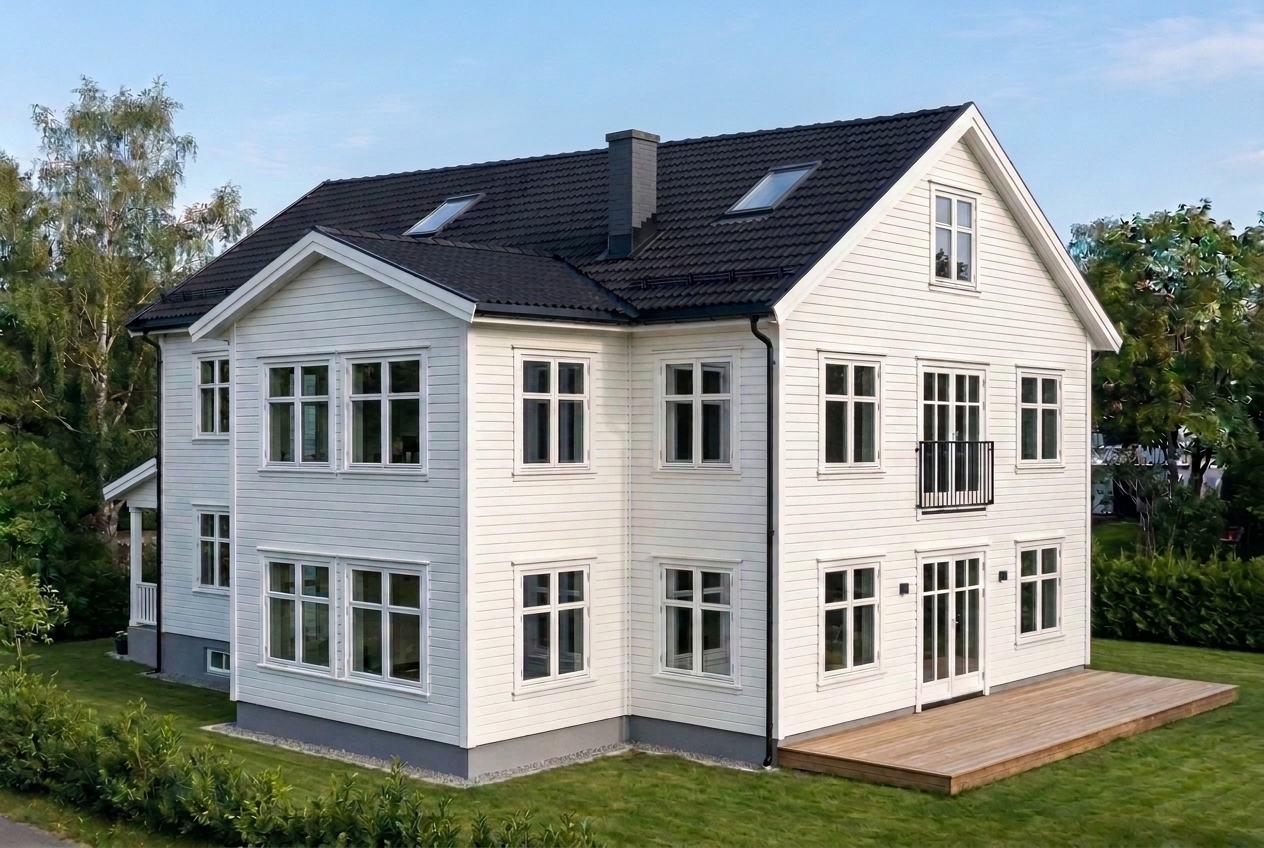
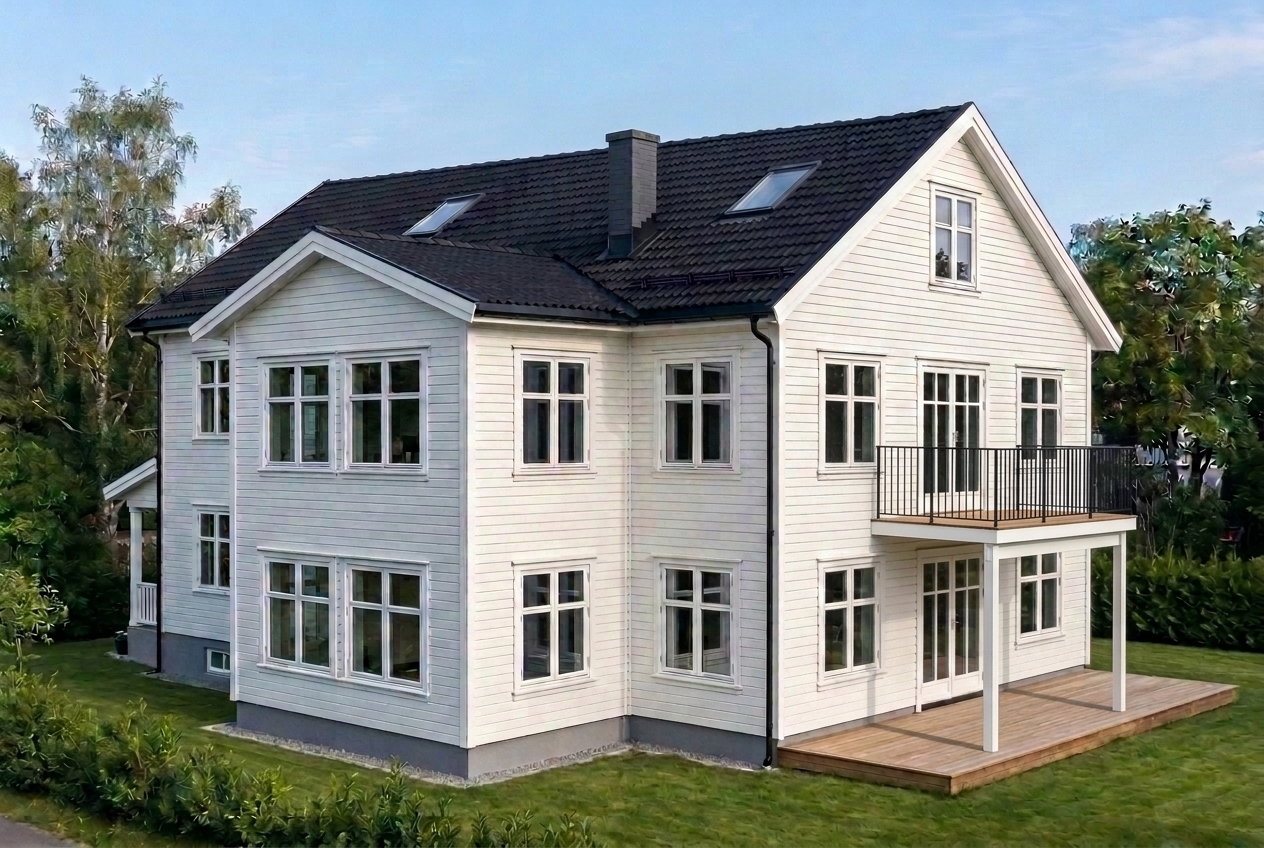
Add photorealistic SW & NW renders for Alt 2 (2,80m) and Alt 1 w/ modern 2,15m south balcony & strict 4-pane kors-sprosser (#50)

Changed region(s): [[0.6788, 0.5212, 0.9256, 0.8892]]

diff --git a/docs/ARKITEKTBRIEF_M6_REV2.md b/docs/ARKITEKTBRIEF_M6_REV2.md
@@ -93,8 +93,9 @@ Eksisterende vest-utbygg (`2,28 × 4,07 m`) **rives helt** for enkel tilgang til
   * [Nordvest — direkte sammenligning Alt 1 (`3,30×5,20 m, 20°`) vs. Alt 2 (`2,80×5,02 m, 32,7°`)](../assets/images/drawings/perspektiv_3d_nordvest_eksakt.png)
   * [Nordøst & Sørøst — Alternativ 2 (`100 %` fluktende østvegg, `2,50 m` nord-tilbygg, 3 åpne kjellertrinn + lavt `12°` trappetak under overlys `Bad 1.etg`)](../assets/images/drawings/perspektiv_3d_nordost_alt2_eksakt.png)
   * [Sydbalkong-sammenligning — `3,20×1,60 m` utkraget vs. `3,80×2,15 m` på 2 slanke søyler](../assets/images/drawings/perspektiv_3d_balkong_sammenligning.png)
-* **Fotorealistiske 3D-renders (oppdatert kors-sprosse-serie):**
-  * **Alternativ 1 — alle 4 hjørner:** [Sørvest](../assets/images/drawings/render_4hjorner_sorvest.jpg) · [Nordvest](../assets/images/drawings/render_4hjorner_nordvest.jpg) · [Nordøst](../assets/images/drawings/render_4hjorner_nordost.jpg) · [Sørøst](../assets/images/drawings/render_4hjorner_sorost.jpg) *(Nordøst/Sørøst/Nordvest re-rendres kl. 18:45 med 100 % fluktende østvegg og rene 4-ruts kors-sprosser; Alt 2 rendres etterpå)*
+* **Fotorealistiske 3D-renders (oppdatert kors-sprosse-serie m/ moderne `3,80 × 2,15 m` sydbalkong & fluktende nord-trappevinduer):**
+  * **Alternativ 2 (Catrine — `2,80 × 5,02 m` vest, parallelt `32,7°` saltak, `2,50 m` nord):** [Sørvest](../assets/images/drawings/render_alt2_sorvest.jpg) · [Nordvest](../assets/images/drawings/render_alt2_nordvest.jpg)
+  * **Alternativ 1 (`3,30 × 5,20 m` vest, `20°` saltak, nord-verandadør):** [Sørvest](../assets/images/drawings/render_4hjorner_sorvest.jpg) · [Nordvest](../assets/images/drawings/render_4hjorner_nordvest.jpg) · [Nordøst](../assets/images/drawings/render_4hjorner_nordost.jpg) · [Sørøst](../assets/images/drawings/render_4hjorner_sorost.jpg)
 
 ---
 
